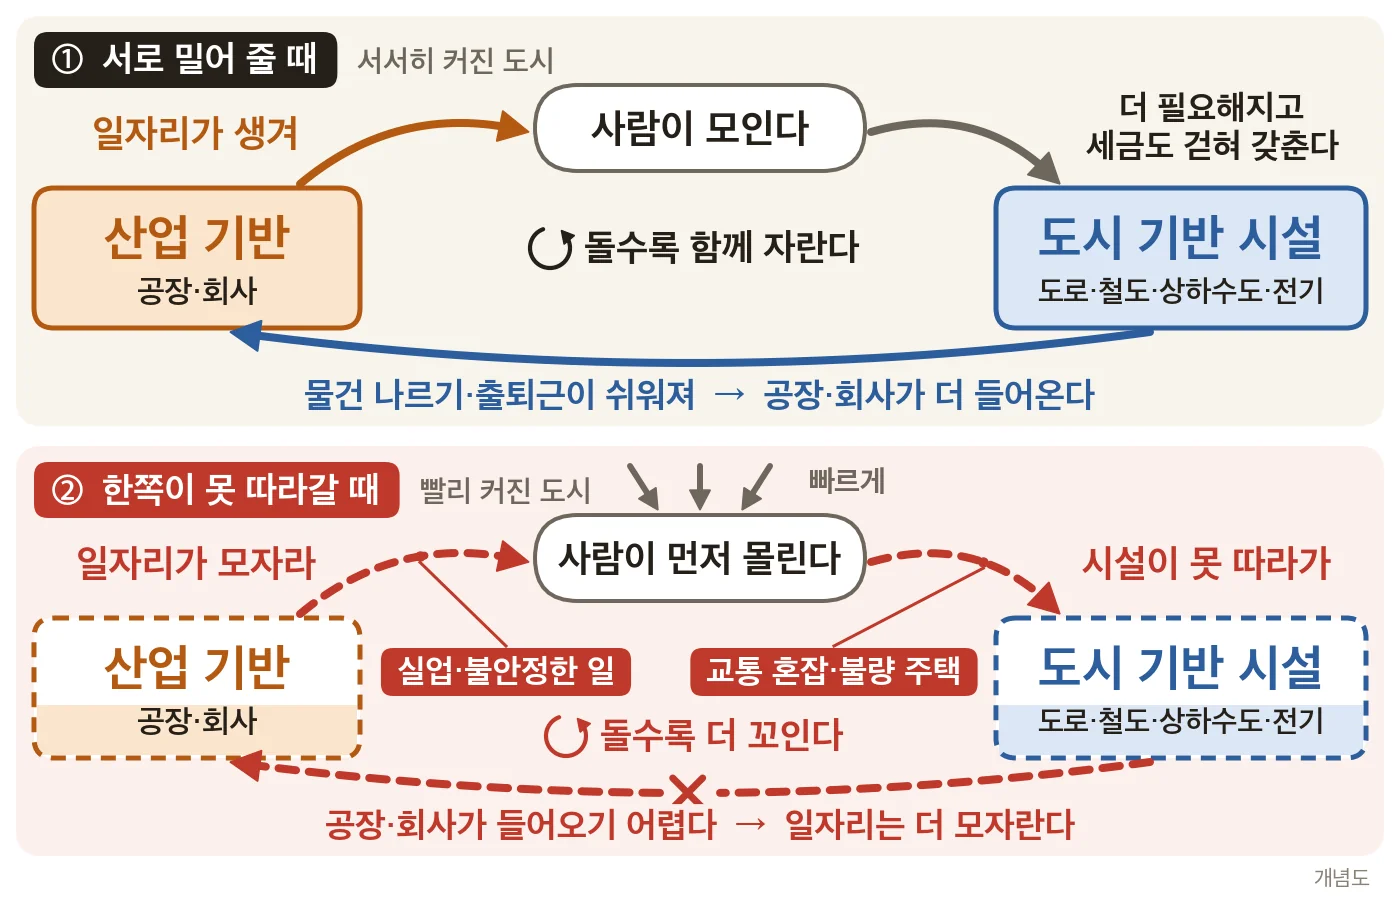
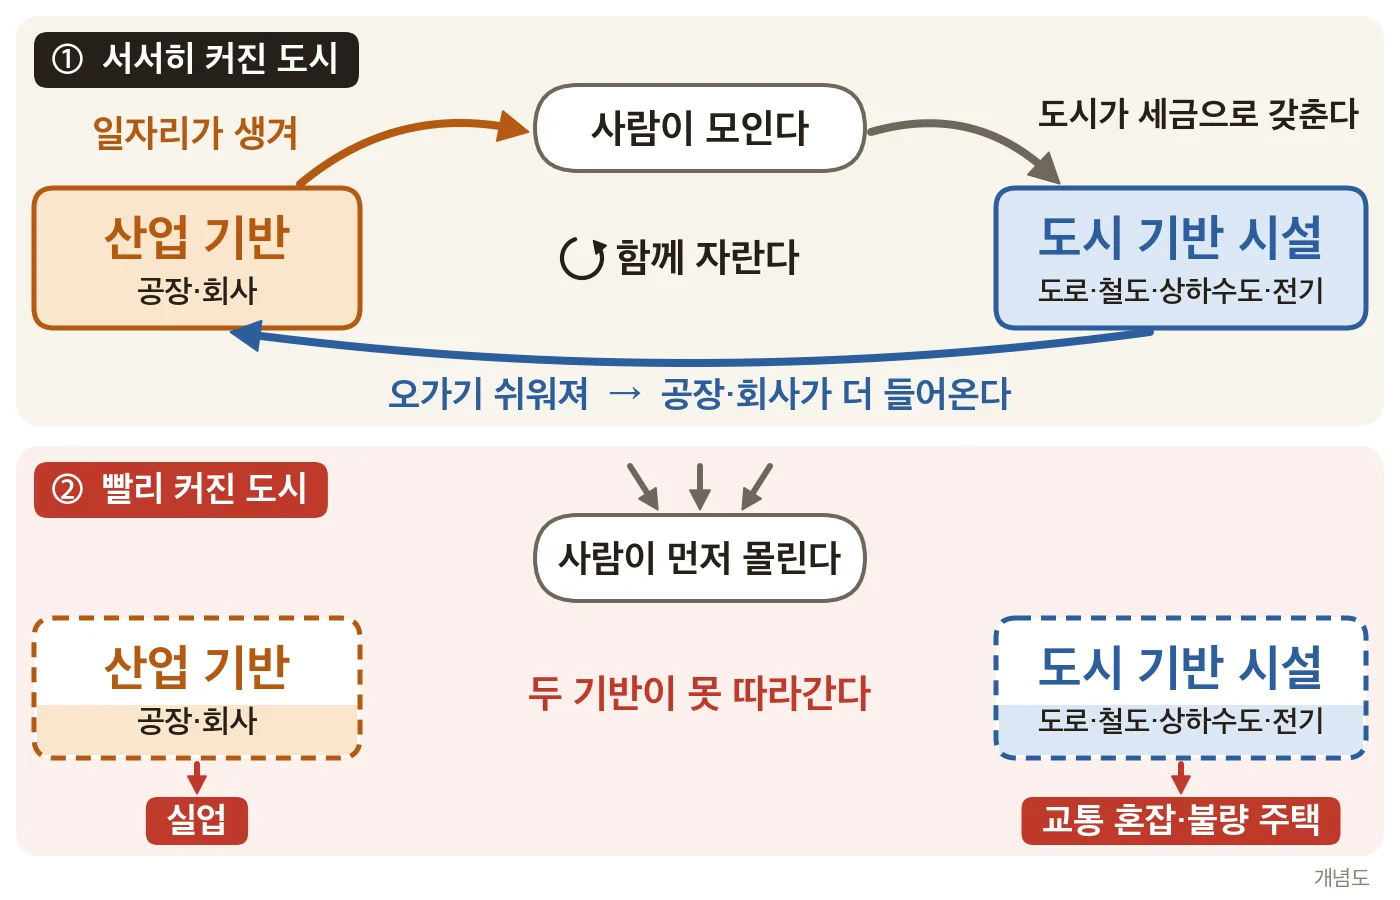
사회② 8-5~6 발행 뒤 댓글 둘 반영 — 빈칸 ③ 산업 혁명 보충을 교사용 교과서 155쪽 주석으로 · 두 '기반' 개념도를 전공 지리 근거로 줄임(① 누적적 인과 한 바퀴, ② 과잉 도시화 — 끊긴 고리 뺌) (천대현 11/12 «push하자»)
이 변경이 깨뜨릴 수 있는 것: 수업용 HTML 2줄(gl-3 보충 글·개념도 그림 설명)과 그림 한 장만 바뀐다. data-id 14·data-answer 13·data-label 11은 d79d6d0과 같아 저장본·제출 집계에 영향 없음.

Claude-Session: https://claude.ai/code/session_0112jfuNjXUAgEuhZG5Yg8vB

diff --git a/worksheets/8-5~6차시_도시화와도시문제_개념편.html b/worksheets/8-5~6차시_도시화와도시문제_개념편.html
@@ -1580,7 +1580,7 @@ figure.lm-fig-peer img{outline:3px solid rgba(15,123,108,.5);outline-offset:3px}
 <details class="ws-fold ws-fold-더보기"><summary>다 쓴 뒤에 펴 보자 — 헷갈리기 쉬운 두 '기반'</summary><div class="ws-fold-body">
 <p>2단계 ④의 산업 기반은 일자리를 주는 공장·회사 같은 산업이고, 도시 기반 시설은 도로·다리·철도, 상하수도·전기처럼 도시의 생활과 경제 활동을 받쳐 주는 시설이다.</p>
 <p>일자리를 줄 산업 기반이 모자라면 실업이 늘고, 도시 기반 시설이 모자라면 교통 혼잡과 불량 주택 같은 문제가 생긴다. 선진국이 '비교적 잘 갖추었다'는 시설이 바로 도시 기반 시설이다.</p>
-<figure class="ws-fig"><a class="ws-fig-zoom" href="images/8-6_two_bases_cycle.webp" target="_blank" rel="noopener" title="눌러서 크게 보기"><img src="images/8-6_two_bases_cycle.webp" alt="산업 기반과 도시 기반 시설이 주고받는 고리(개념도) — ① 서로 밀어 줄 때: 공장·회사가 일자리를 만들어 사람이 모이면 시설이 더 필요해지고 갖춰지며, 오가기 쉬워져 공장·회사가 더 들어온다 ② 한쪽이 못 따라갈 때: 사람이 먼저 몰리면 일자리가 모자라 실업이, 시설이 못 따라가 교통 혼잡·불량 주택이 생기고 공장·회사가 들어오기 어려워진다" loading="lazy"></a><figcaption>산업 기반과 도시 기반 시설이 주고받는 고리(개념도) — ① 서로 밀어 줄 때: 공장·회사가 일자리를 만들어 사람이 모이면 시설이 더 필요해지고 갖춰지며, 오가기 쉬워져 공장·회사가 더 들어온다 ② 한쪽이 못 따라갈 때: 사람이 먼저 몰리면 일자리가 모자라 실업이, 시설이 못 따라가 교통 혼잡·불량 주택이 생기고 공장·회사가 들어오기 어려워진다</figcaption></figure>
+<figure class="ws-fig"><a class="ws-fig-zoom" href="images/8-6_two_bases_cycle.webp" target="_blank" rel="noopener" title="눌러서 크게 보기"><img src="images/8-6_two_bases_cycle.webp" alt="산업 기반과 도시 기반 시설(개념도) — ① 서서히 커진 도시: 공장·회사가 일자리를 만들어 사람이 모이면 도시가 세금으로 도로·철도 같은 시설을 갖추고, 오가기 쉬워져 공장·회사가 더 들어온다 ② 빨리 커진 도시: 사람이 먼저 몰려 두 기반이 못 따라가니, 일자리가 모자라 실업이, 시설이 모자라 교통 혼잡·불량 주택이 생긴다" loading="lazy"></a><figcaption>산업 기반과 도시 기반 시설(개념도) — ① 서서히 커진 도시: 공장·회사가 일자리를 만들어 사람이 모이면 도시가 세금으로 도로·철도 같은 시설을 갖추고, 오가기 쉬워져 공장·회사가 더 들어온다 ② 빨리 커진 도시: 사람이 먼저 몰려 두 기반이 못 따라가니, 일자리가 모자라 실업이, 시설이 모자라 교통 혼잡·불량 주택이 생긴다</figcaption></figure>
 </div></details>
 <br>
 <figure class="ws-fig"><a class="ws-fig-zoom" href="images/8-6_map_places.webp" target="_blank" rel="noopener" title="눌러서 크게 보기"><img src="images/8-6_map_places.webp" alt="오늘 나오는 곳 둘 — 영국 런던, 미국 로스앤젤레스, 일본 도쿄, 인도 뭄바이, 몽골 울란바토르, 베트남 호찌민, 중국 베이징, 광주" loading="lazy"></a><figcaption>오늘 나오는 곳 둘 — 영국 런던, 미국 로스앤젤레스, 일본 도쿄, 인도 뭄바이, 몽골 울란바토르, 베트남 호찌민, 중국 베이징, 광주</figcaption></figure>
@@ -2585,7 +2585,7 @@ if(sw){sw.classList.add('v2t-seeing');tag(sw,'사진으로 읽기');var hk=docum
 [].slice.call(document.querySelectorAll('.v2-sec h2')).forEach(function(h){var n=h.firstChild;if(!n||n.nodeType!==3)return;var m=n.data.match(/^\s*([\u2600-\u27BF\uD83C-\uDBFF\uDC00-\uDFFF\uFE0F]+)\s*/);if(!m)return;var r=n.splitText(m[0].length);var s=document.createElement('span');s.className='v2t-ico';s.textContent=m[1];h.insertBefore(s,r);h.removeChild(n)});
 })();
 </script>
-<script type="application/json" id="gl-data">[{"id": "gl-1", "kind": "word", "word": "산업화", "text": "일을 나누어 맡고 기계로 물건을 많이 만들게 되면서, 농사·고기잡이 같은 1차 산업보다 공업과 서비스업(2·3차 산업)의 비중이 커지는 변화다. 일하는 방식이 바뀌면 사람들이 사는 곳과 생활 모습도 함께 바뀐다.", "near": "도시화는 보통 산업화와 함께"}, {"id": "gl-2", "kind": "blank", "blank": "4", "word": "산업 기반", "text": "사람들이 일하고 돈을 벌 수 있는 공장과 회사, 곧 일자리를 주는 산업이 자리 잡은 바탕이다. 도시로 사람이 몰려와도 이 바탕이 모자라면 일자리를 못 구한 사람이 늘어난다."}, {"id": "gl-3", "kind": "blank", "blank": "3", "word": "산업 혁명", "text": "18세기 후반 영국에서 시작해 유럽으로 퍼진 큰 변화다. 기계와 증기 기관으로 공장에서 물건을 한꺼번에 많이 만들게 되자, 일자리를 찾아 농촌 사람들이 공장이 있는 도시로 모여들면서 도시가 커졌다."}, {"id": "gl-4", "kind": "word", "word": "교통·환경·주택 문제", "text": "교과서 156쪽 표를 세 줄로 줄이면 이렇다. // 교통 문제 — 길이 막히고, 도로와 주차할 곳이 모자라고, 교통사고가 늘어난다. // 주택 문제 — 사람 수만큼 집이 없고, 허름한 집이 모인 동네가 생긴다. // 환경 문제 — 공기·물·흙이 더러워지고 쓰레기가 쌓인다.", "near": "도시로 모이면서"}, {"id": "gl-5", "kind": "blank", "blank": "6", "word": "노후", "text": "교과서 156쪽 표의 주택 문제 칸에는 '주택의 노후화'도 있다. 지은 지 오래되어 낡은 집과 건물이 늘어나는 문제로, 도시화를 일찍 시작한 선진국의 도심에서 특히 두드러진다."}]</script>
+<script type="application/json" id="gl-data">[{"id": "gl-1", "kind": "word", "word": "산업화", "text": "일을 나누어 맡고 기계로 물건을 많이 만들게 되면서, 농사·고기잡이 같은 1차 산업보다 공업과 서비스업(2·3차 산업)의 비중이 커지는 변화다. 일하는 방식이 바뀌면 사람들이 사는 곳과 생활 모습도 함께 바뀐다.", "near": "도시화는 보통 산업화와 함께"}, {"id": "gl-2", "kind": "blank", "blank": "4", "word": "산업 기반", "text": "사람들이 일하고 돈을 벌 수 있는 공장과 회사, 곧 일자리를 주는 산업이 자리 잡은 바탕이다. 도시로 사람이 몰려와도 이 바탕이 모자라면 일자리를 못 구한 사람이 늘어난다."}, {"id": "gl-3", "kind": "blank", "blank": "3", "word": "산업 혁명", "text": "18세기 후반 영국에서 시작해 약 100년 동안 유럽 곳곳으로 퍼진 큰 변화다. 새 기계와 기술이 잇달아 나오고(기술 혁신), 그에 따라 물건을 만드는 방식부터 사람들이 일하고 사는 사회와 경제의 구조까지 크게 바뀌었다. // 기계와 증기 기관으로 공장에서 물건을 한꺼번에 많이 만들게 되자, 일자리를 찾아 농촌 사람들이 공장이 있는 도시로 모여들었다. // 본문의 '약 200년'은 산업 혁명이 시작된 18세기 후반부터 도시화의 마지막 단계에 이른 20세기 중반까지를 말한다."}, {"id": "gl-4", "kind": "word", "word": "교통·환경·주택 문제", "text": "교과서 156쪽 표를 세 줄로 줄이면 이렇다. // 교통 문제 — 길이 막히고, 도로와 주차할 곳이 모자라고, 교통사고가 늘어난다. // 주택 문제 — 사람 수만큼 집이 없고, 허름한 집이 모인 동네가 생긴다. // 환경 문제 — 공기·물·흙이 더러워지고 쓰레기가 쌓인다.", "near": "도시로 모이면서"}, {"id": "gl-5", "kind": "blank", "blank": "6", "word": "노후", "text": "교과서 156쪽 표의 주택 문제 칸에는 '주택의 노후화'도 있다. 지은 지 오래되어 낡은 집과 건물이 늘어나는 문제로, 도시화를 일찍 시작한 선진국의 도심에서 특히 두드러진다."}]</script>
 <script id="gl-js">/* 2026-11-10 사회② Ⅷ: 보충 말풍선 — 교사용 교과서의 파란 주석처럼. 방식 1 낱말 누르기 · 방식 2 채점해서 맞힌 빈칸만.
    넓은 화면(1280px~)은 본문 상자 오른쪽 여백, 좁으면 그 문단 아래. 인쇄는 열린 것만 문단 아래 글로. 시험판 = 8-5~6 검토판 v3(11/9) */
 (function(){
